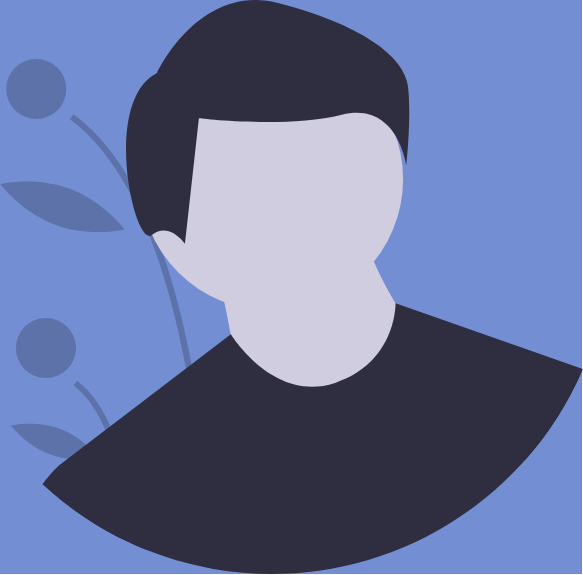
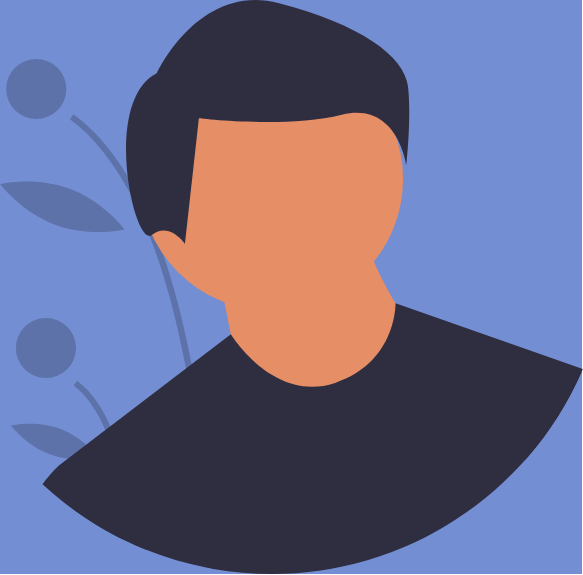
Image skin tone update

Changed region(s): [[0.247, 0.1774, 0.7101, 0.68]]

diff --git a/index.html b/index.html
@@ -465,7 +465,7 @@
   </div>
 </footer>
 
-<!--Animate AOS-->
+<!--Animate NavBar-->
 <script>
   var prevScrollpos = window.pageYOffset;
   window.onscroll = function() {
@@ -480,6 +480,7 @@
     prevScrollpos = currentScrollPos;
   }
   </script>
+  <!-- AOS -->
  <script src="https://unpkg.com/aos@2.3.1/dist/aos.js"></script>
  <script src="js/creative.js"></script>
  <script>
